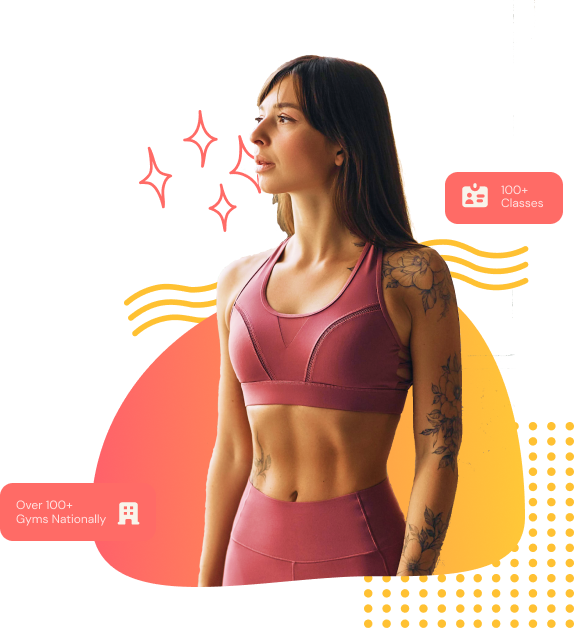
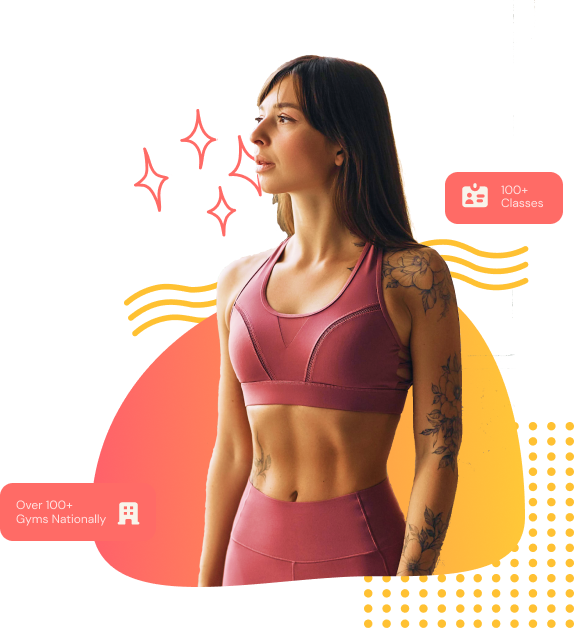
test with different color

Changed region(s): [[0.3548, 0.2118, 0.473, 0.3933], [0.2365, 0.2118, 0.2957, 0.3328], [0.3252, 0.1815, 0.3843, 0.2723]]

diff --git a/tailwind.config.js b/tailwind.config.js
@@ -12,7 +12,7 @@
         "gray-100": "#DFCCCC",
         "gray-500": "#5E0000",
         "primary-100": "#FFE1E0",
-        "primary-300": "#FFA6A3",
+        "primary-300": "#FF00A4",
         "primary-500": "#FF6B66",
         "secondary-400": "#FFCD5B",
         "secondary-500": "#FFC132",
